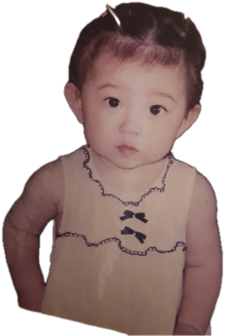
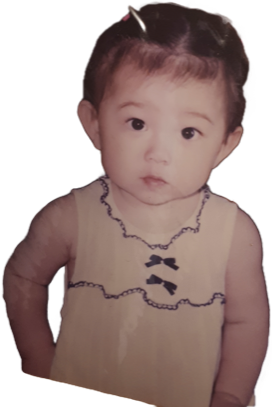
Redraw the lace with a net ground; enlarge the cutouts so they overlap
The first lace was line art on an empty band and read as a doodle. It now has
the parts that make lace look like lace: a diagonal net ground filling the band,
six-petal flowers with leaf sprigs spaced along each side, larger blooms at the
corners, and a picot scallop edge. Density is tuned for the 19px border the
frames actually render at — an earlier, finer version authored at 120px slices
collapsed into a dotted line once scaled down.

Cutouts grow by about 45% and pull inward so each one now overlaps the framed
photo, as in the reference collage.

Bride's cutout is re-cut from the union of the foreground-instance and person
segmentation masks, which recovers the hair clips the person mask drops.

diff --git a/index.html b/index.html
@@ -194,12 +194,13 @@
      원본마다 인물이 차지하는 비율이 달라, 폭이 아니라 '인물 키'를 기준으로 크기를 맞춥니다. */
   .cut { position:absolute; z-index:2; }
   .cut img { display:block; width:auto; filter:drop-shadow(0 6px 12px rgba(90,40,50,.34)); }
-  .cut.gc img { height:82px; }
-  .cut.gp img { height:120px; }
-  .cut.bc img { height:118px; }
-  .cut.bp img { height:116px; }
-  .cut.l { left:-4%; top:196px; transform:rotate(-5deg); }
-  .cut.r { right:-4%; top:104px; transform:rotate(5deg); }
+  .cut.gc img { height:118px; }
+  .cut.gp img { height:170px; }
+  .cut.bc img { height:168px; }
+  .cut.bp img { height:164px; }
+  /* 가운데 사진 위로 살짝 겹치도록 안쪽으로 당깁니다 */
+  .cut.l { left:-6%; top:170px; transform:rotate(-5deg); }
+  .cut.r { right:-6%; top:60px;  transform:rotate(5deg); }
   .fam-note { text-align:center; margin:26px auto 0; max-width:320px; font-family:var(--serif); font-size:14px; color:#5c3038; letter-spacing:1px; line-height:2; }
 
   /* ── 서로에게 : 사진 일기 카드 ── */
